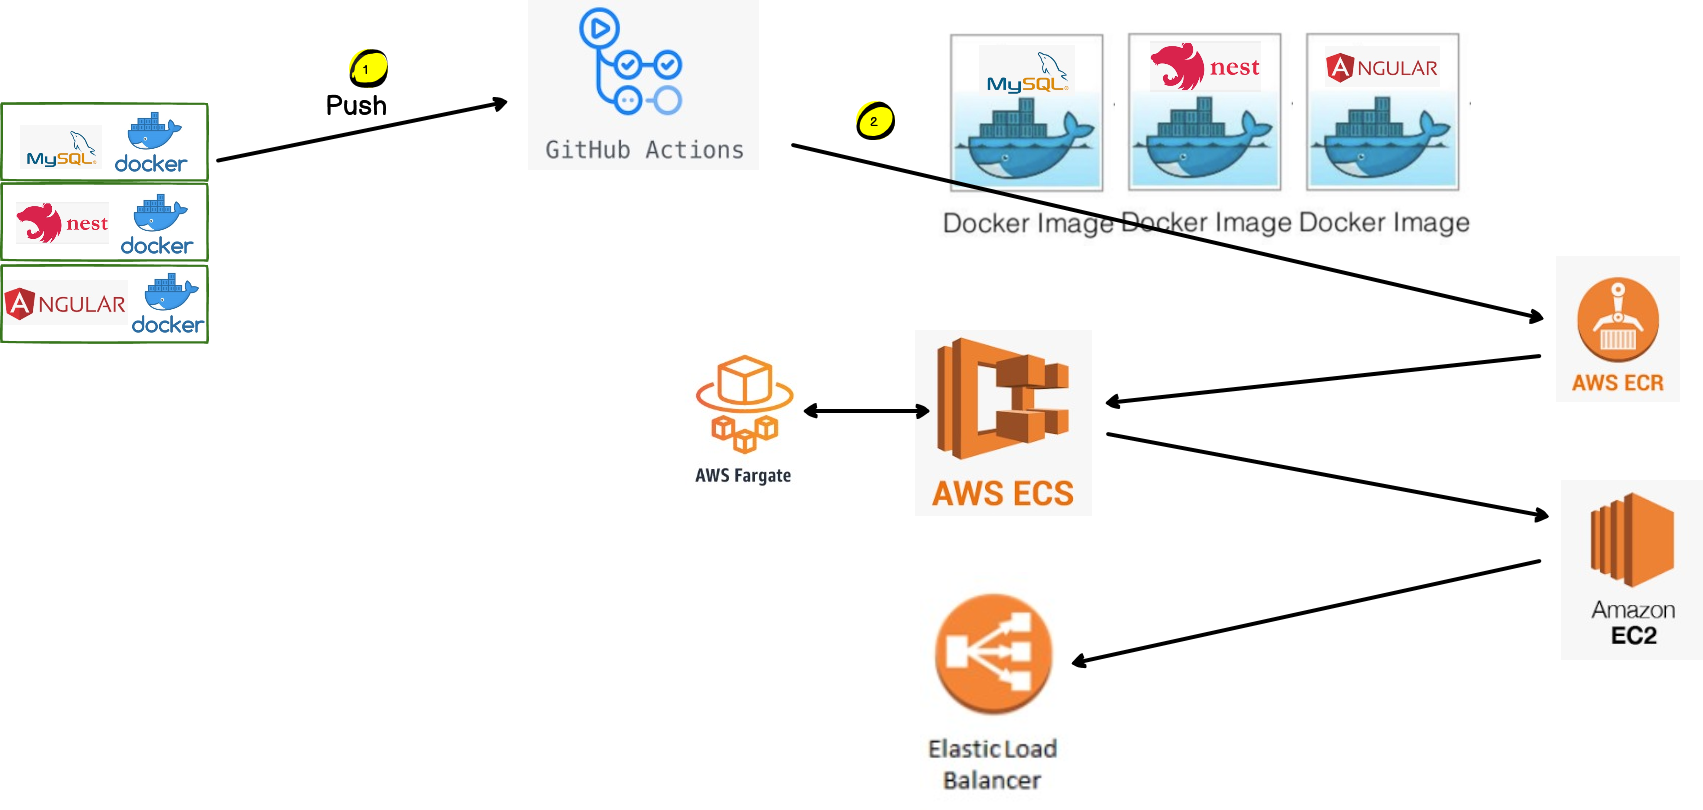
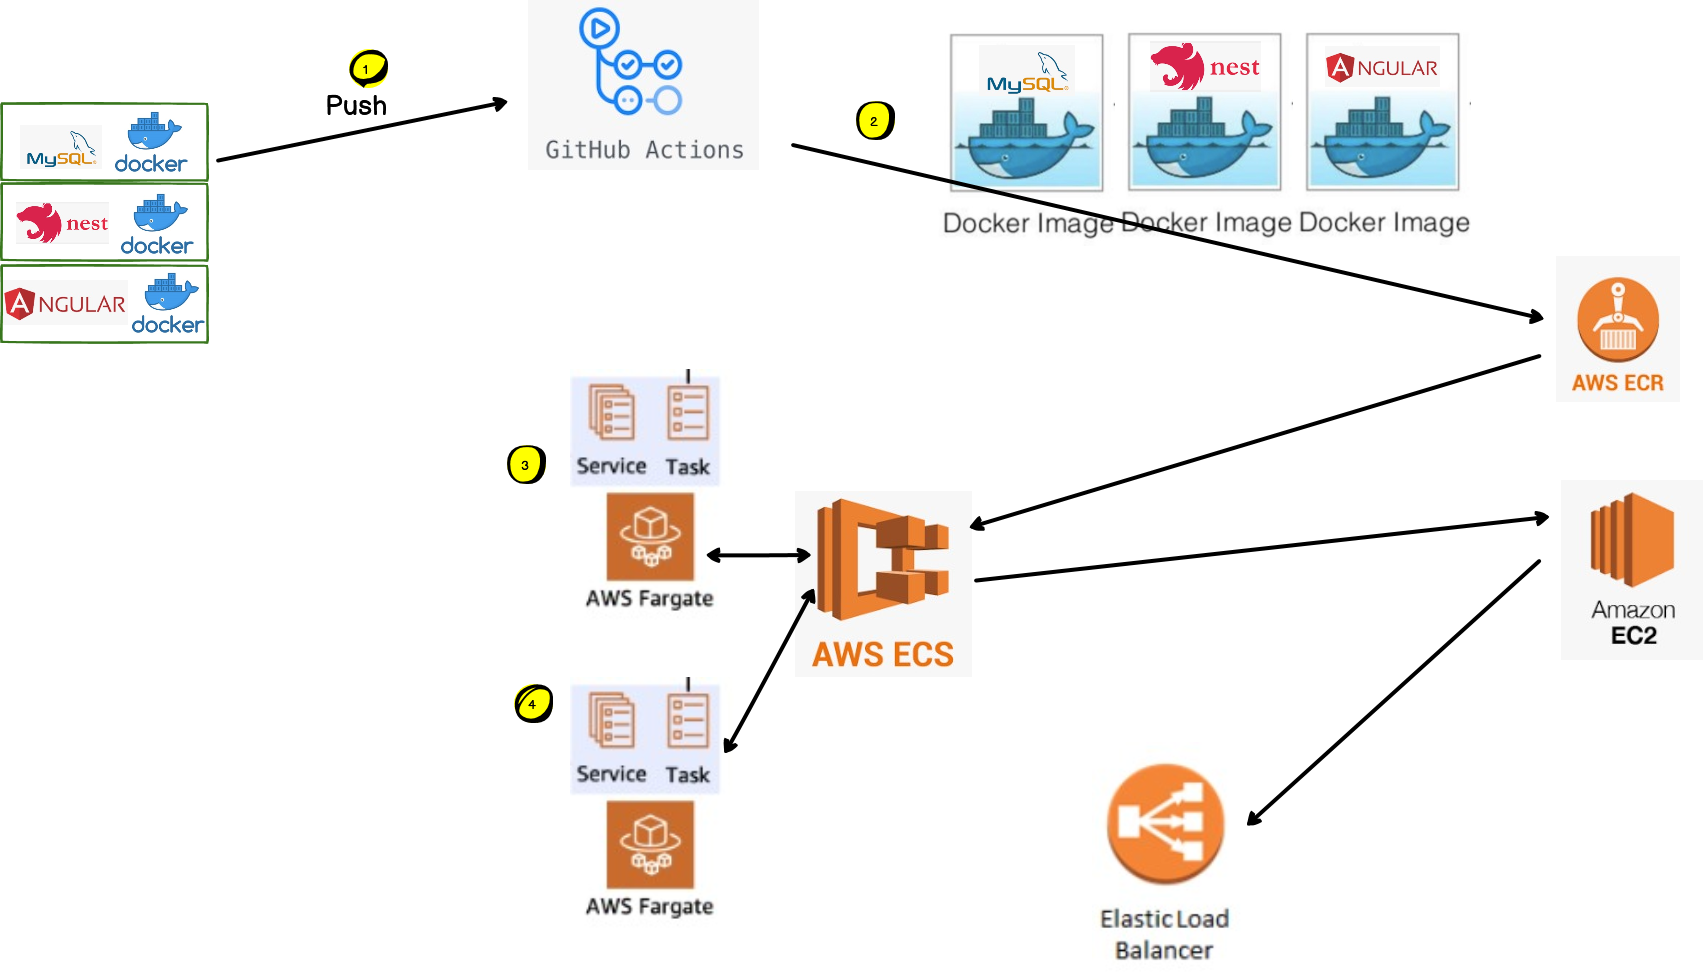
modify description 1

diff --git a/README.md b/README.md
@@ -25,7 +25,7 @@
 1. Commit and push frontend and backend programs to github. 
 2. By performing Github Acton, each database, backend, and frontend program is created as a Docker image and pushed to ECR (AWS docker image hub). 
 3. When a new image is updated in ECR by detecting ECR, the actually current running application task is not automatically updated (to control the update time and apply various variables). And applied the new task in a few minutes later, then new task start to running.
-4. If task is updated manually, the task that was previously operated operates as it is for a certain period of time , and the new version waiting to be updated is operated at the same time, and then replaced with the new version. At this time, the situation in which the previously operated Web is not stopped does not occur, so the user can continue to work without the program being stopped.
+4. If task is updated manually, the original task operates as it is for a certain period of time , and the new version waiting to be updated is operating at the same time, and then old program is replaced with the new program smoothly, the current program that is operating does not stop until the new task is updated completely, so the user can continue to work without the program being stopped.
 ![](images/ci-cd3.png)
 
 -----
